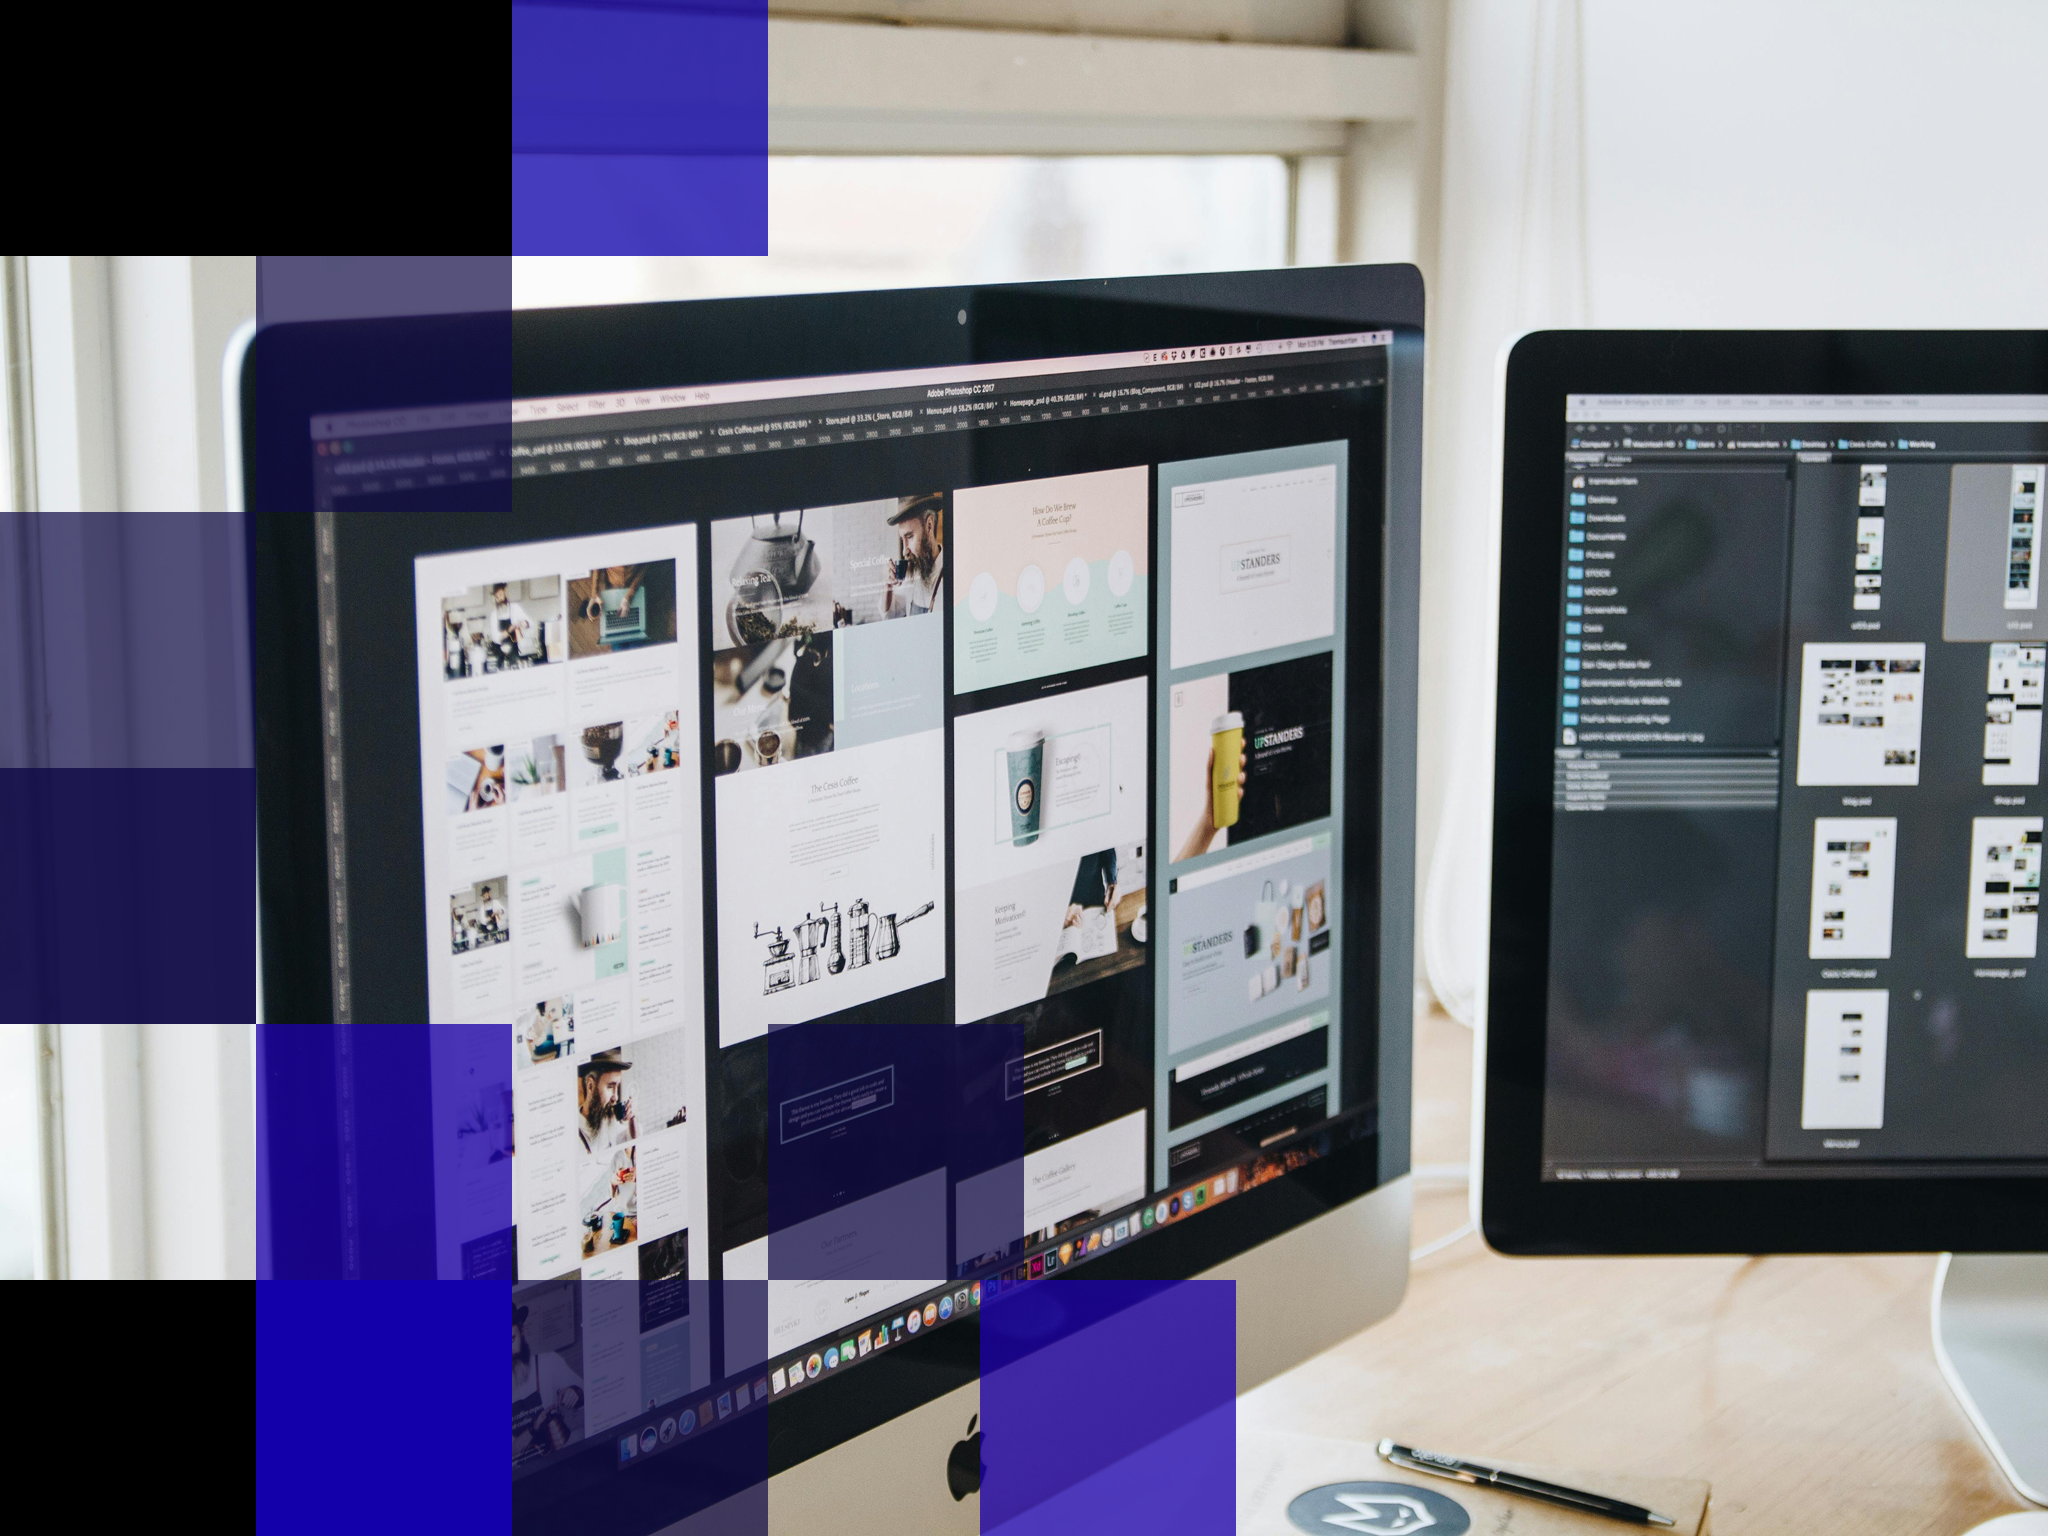
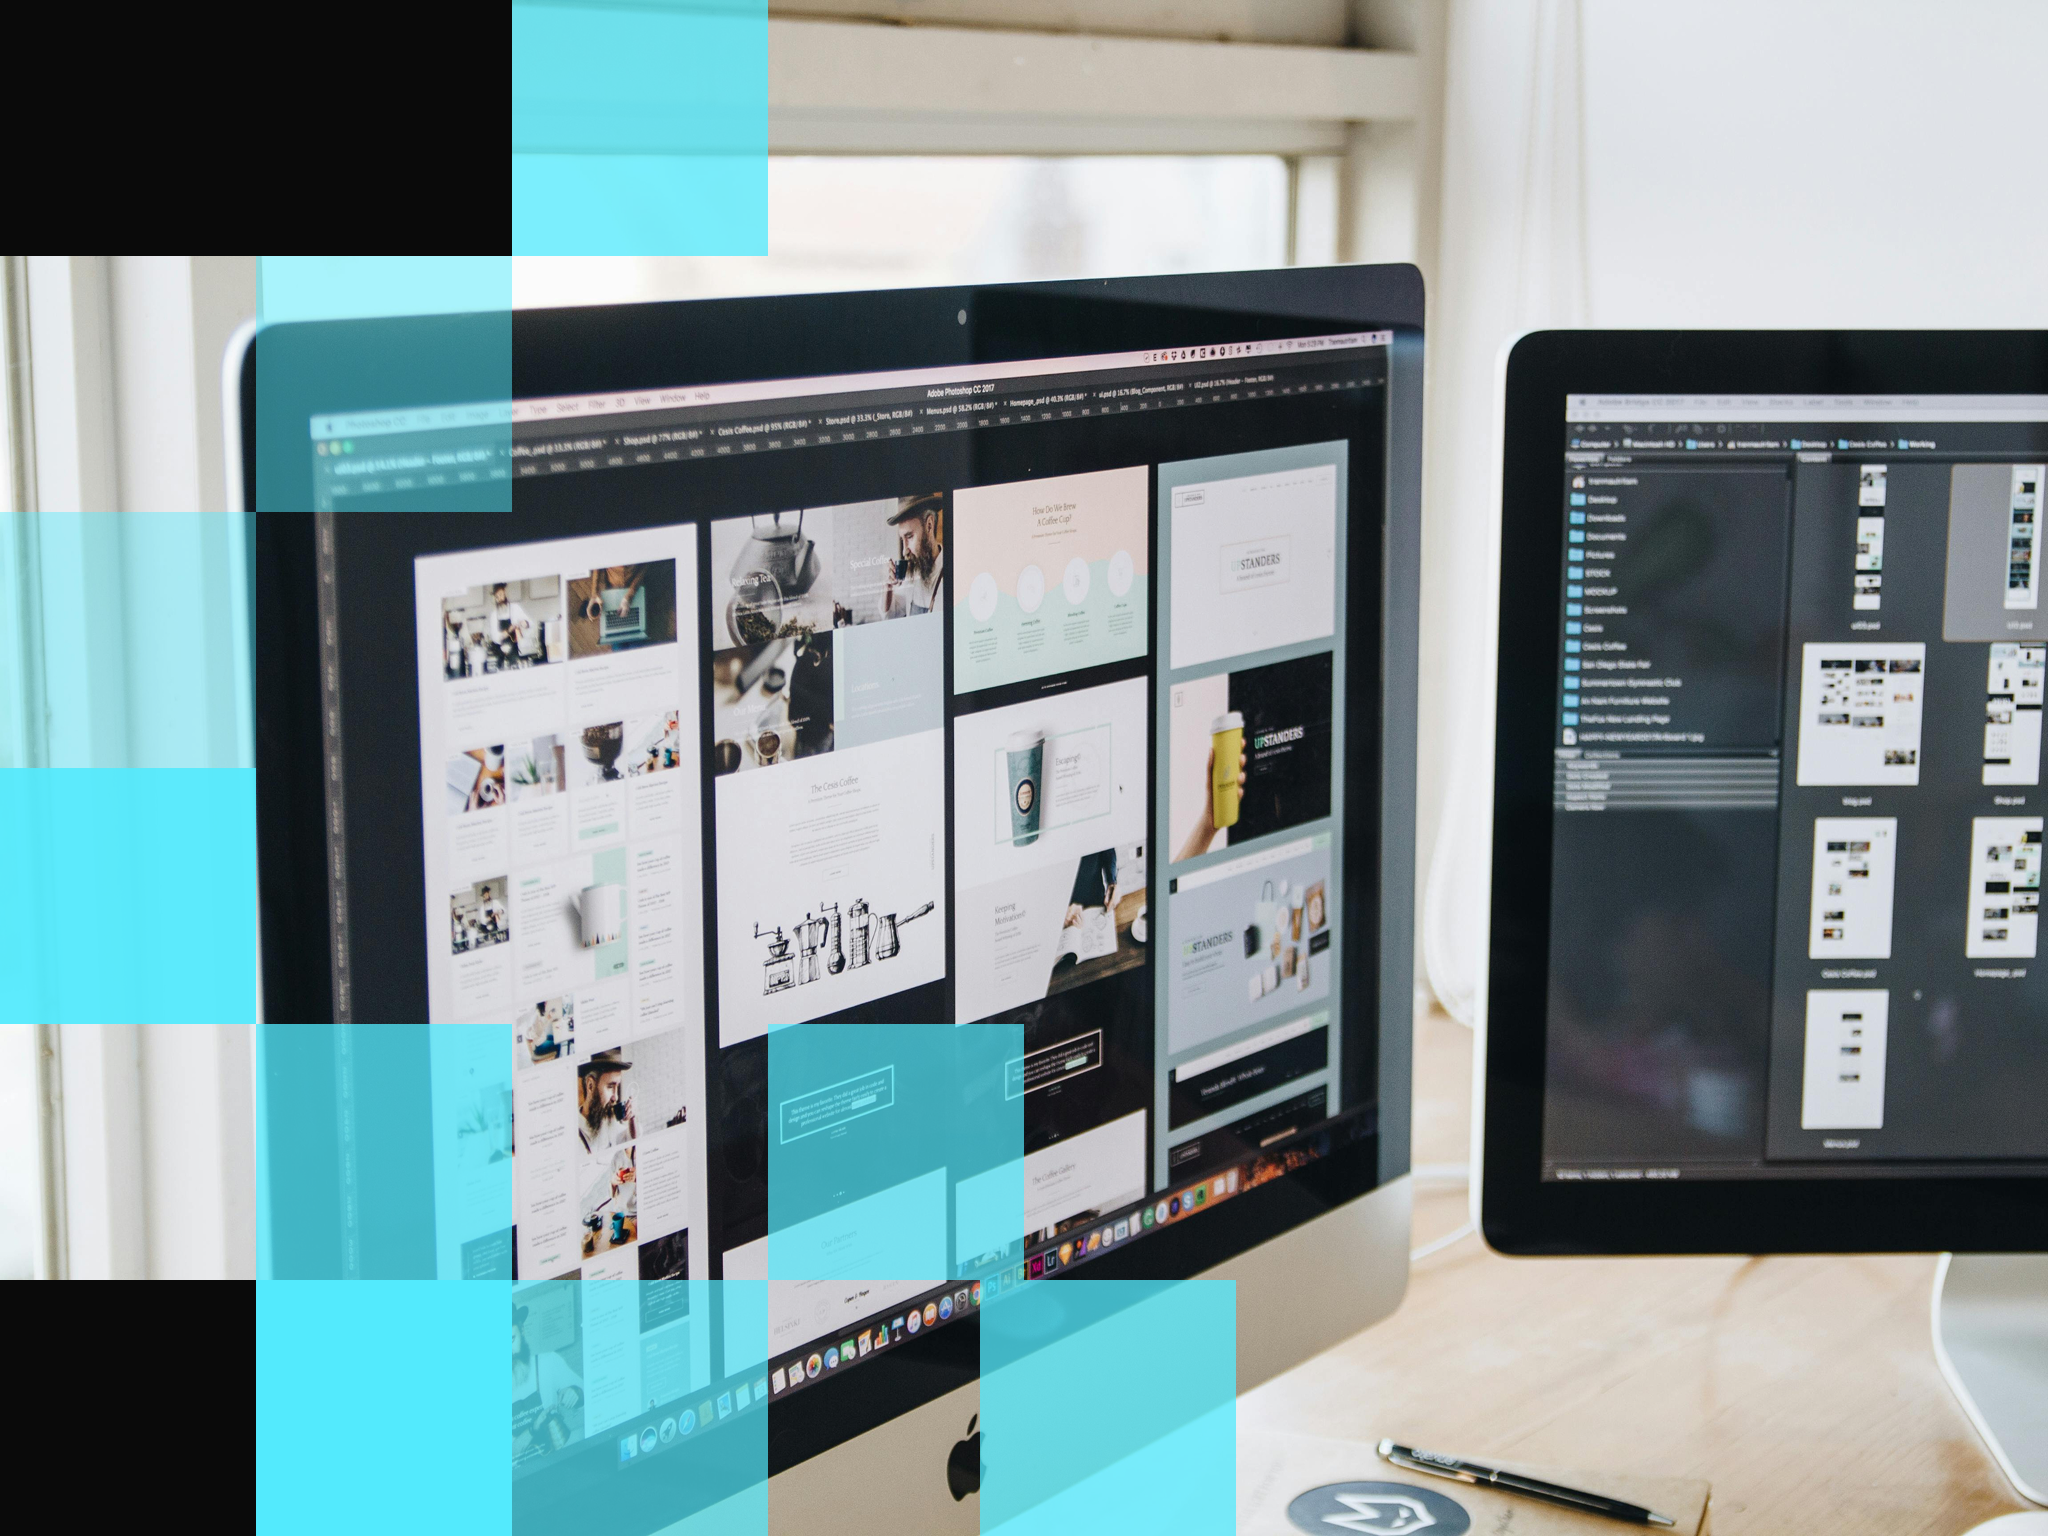
Update color scheme for btns and bg image

Changed region(s): [[0.0, 0.0, 0.625, 1.0]]

diff --git a/components/services/strategy-design/PrinciplesSection.tsx b/components/services/strategy-design/PrinciplesSection.tsx
@@ -105,7 +105,7 @@ const ServiceCard: React.FC<ServiceCardProps> = ({
                         <ol className="relative border-l border-gray-700 mt-4 space-y-6">
                             {description.map((item, idx) => (
                                 <li key={idx} className="ml-4 relative">
-                                    <div className="absolute -left-5.5 mt-2 w-3 h-3 bg-[#1400AA] rounded-full border border-gray-900"></div>
+                                    <div className="absolute -left-5.5 mt-2 w-3 h-3 bg-[#53EAFD] rounded-full border border-gray-900"></div>
                                     <h4 className="text-white font-semibold">{item.heading}</h4>
                                     <p className="text-sm text-gray-400 mt-1">{item.text}</p>
                                 </li>
@@ -125,7 +125,7 @@ const ServiceCard: React.FC<ServiceCardProps> = ({
                     )}
 
                     {hasButton && (
-                        <button className="mt-4 px-4 py-2 text-sm font-medium text-white bg-[#1400AA] rounded hover:bg-indigo-700 transition">
+                        <button className="mt-4 px-4 w-40 py-2 text-sm font-medium text-white bg-[#53EAFD] rounded btn-sm">
                             Learn more
                         </button>
                     )}

diff --git a/components/services/strategy-design/StrategySection.tsx b/components/services/strategy-design/StrategySection.tsx
@@ -7,7 +7,7 @@ export default function StrategySection() {
         <section className="text-white mt-7">
             <div className="grid grid-cols-1 lg:grid-cols-2 gap-15 items-center">
                 <div className="mx-auto max-w-7xl px-6 lg:px-15">
-                    <p className="text-sm font-semibold text-[#1e00ff] uppercase">
+                    <p className="text-sm font-semibold text-[#53EAFD] uppercase">
                         Strategy and design
                     </p>
                     <h1 className="mt-4 text-4xl sm:text-5xl font-extrabold tracking-tight">Creating brilliant experiences together</h1>
@@ -28,7 +28,7 @@ export default function StrategySection() {
                             </Button>
 
                             <div
-                                className="border-b-5 border-purple-500 w-full transition-[transform,width] duration-300 ease-out origin-left group-hover:w-[calc(100%+0.25rem)]"
+                                className="border-b-5 border-[#53EAFD] w-full transition-[transform,width] duration-300 ease-out origin-left group-hover:w-[calc(100%+0.25rem)]"
                             />
                         </div>
                     </div>